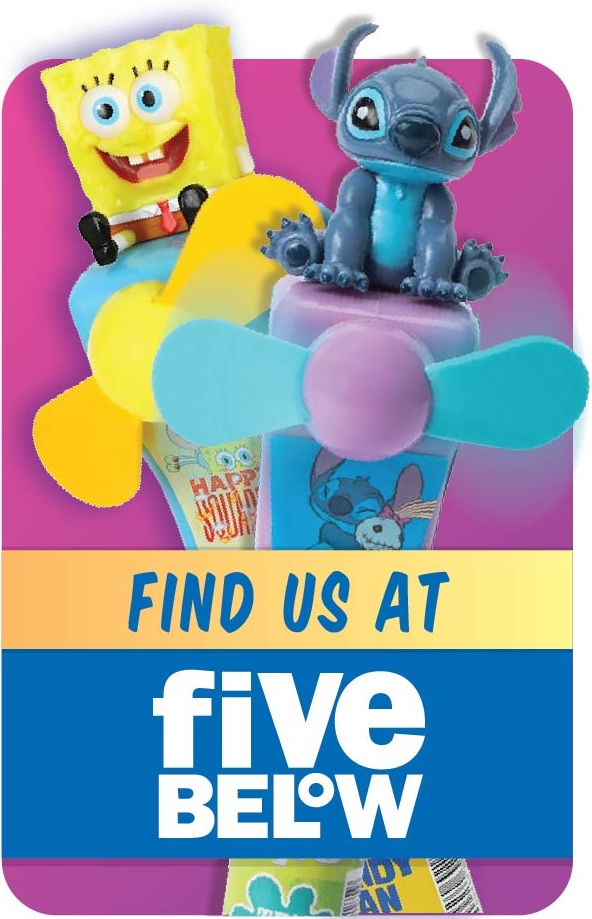
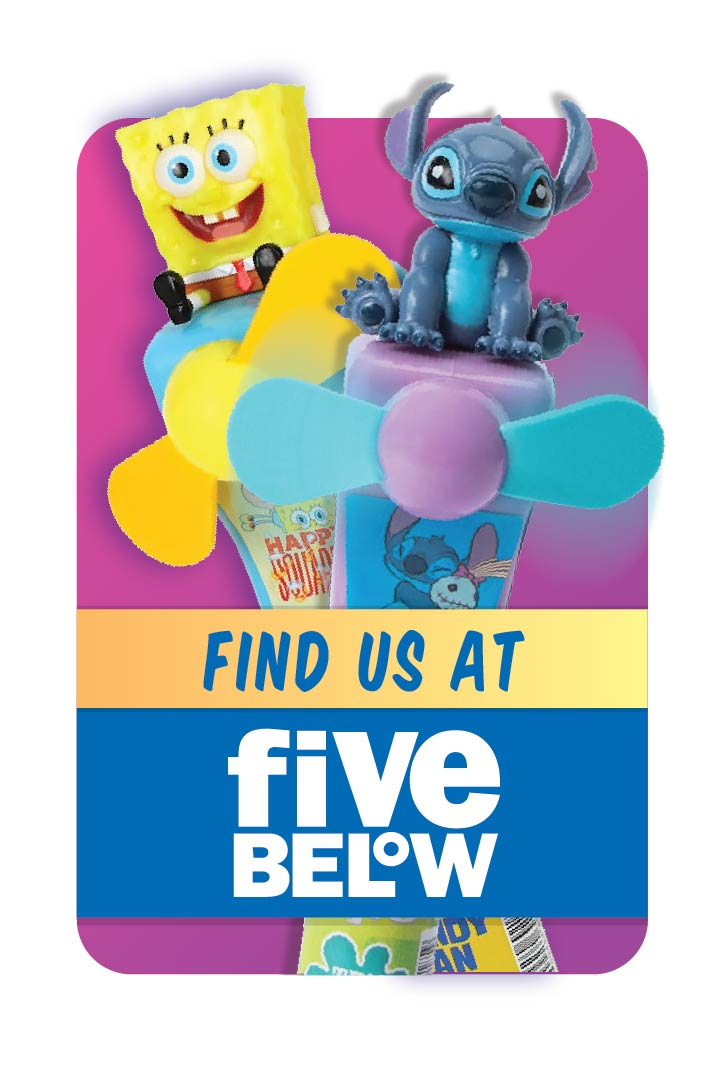
Added the carousel for both mobile and desktop. Will need to work with Nina to come up with a standard for the mobile sizing.

diff --git a/src/components/CarouselSectionWelcome.vue b/src/components/CarouselSectionWelcome.vue
@@ -1,9 +1,9 @@
 <script setup>
 import { ref } from 'vue'
 
-import carouselLoud from '../assets/21-9_image.jpg'
-import carouselDummy from '../assets/21-9_image.jpg'
-import carousel169 from '../assets/21-9_image.jpg'
+import carouselLoud from '../assets/Carousel_WEB_V01-01.jpg'
+import carouselDummy from '../assets/Carousel_WEB_V01-02.jpg'
+import carousel169 from '../assets/Carousel_WEB_V01_TBD.jpg'
 
 import CarouselMobileCard from './CarouselMobileCard.vue'
 
@@ -34,7 +34,7 @@ function handleBackArrowClick() {
   <div class="carousel-plus-circles">
     <div class="carousel-section">
 
-    <div class="arrow-container">
+    <div class="arrow-container-left">
       <button
         class="back-arrow"
         type="button"
@@ -73,7 +73,7 @@ function handleBackArrowClick() {
     </div>
 
 
-    <div class="arrow-container">
+    <div class="arrow-container-right">
       <button
         class="forward-arrow"
         type="button"
@@ -160,10 +160,19 @@ function handleBackArrowClick() {
 
 
 
-.arrow-container {
+.arrow-container-left {
   display: flex;
   align-items: center;
-  justify-content: center;
+  justify-content: flex-end;
+
+  width: 100%;
+  height: 100%;
+}
+
+.arrow-container-right {
+  display: flex;
+  align-items: center;
+  justify-content: flex-start;
 
   width: 100%;
   height: 100%;
@@ -225,7 +234,6 @@ function handleBackArrowClick() {
   display: flex;
   justify-content: center;
   gap: 10px;
-  margin-top: 1rem;
 }
 
 .carousel-circle {

diff --git a/src/components/CarouselMobileCard.vue b/src/components/CarouselMobileCard.vue
@@ -2,7 +2,7 @@
     <div class="carousel-mobile-slider">
         <div class="carousel-mobile-card">
             <a>
-                <img src="../assets/cropped_loudmouth_mobile.jpg" alt="carousel image" />
+                <img src="../assets/Carousel_MOBILE_V01-04.jpg" alt="carousel image" />
             </a>
         </div>
         <div class="carousel-mobile-card">
@@ -44,11 +44,13 @@
 .carousel-mobile-card {
     /* border: 1px solid red; */
     border-radius: 1rem;
-    height: 35rem;
+    height: 33rem;
     width: 22rem;
-    margin: .5rem;
     flex-shrink: 0;
     scroll-snap-align: center;
+    margin-bottom: -3rem;
+    margin-left: -1.8rem;
+    margin-top: -1rem;
 }
 
 .carousel-mobile-card img {
